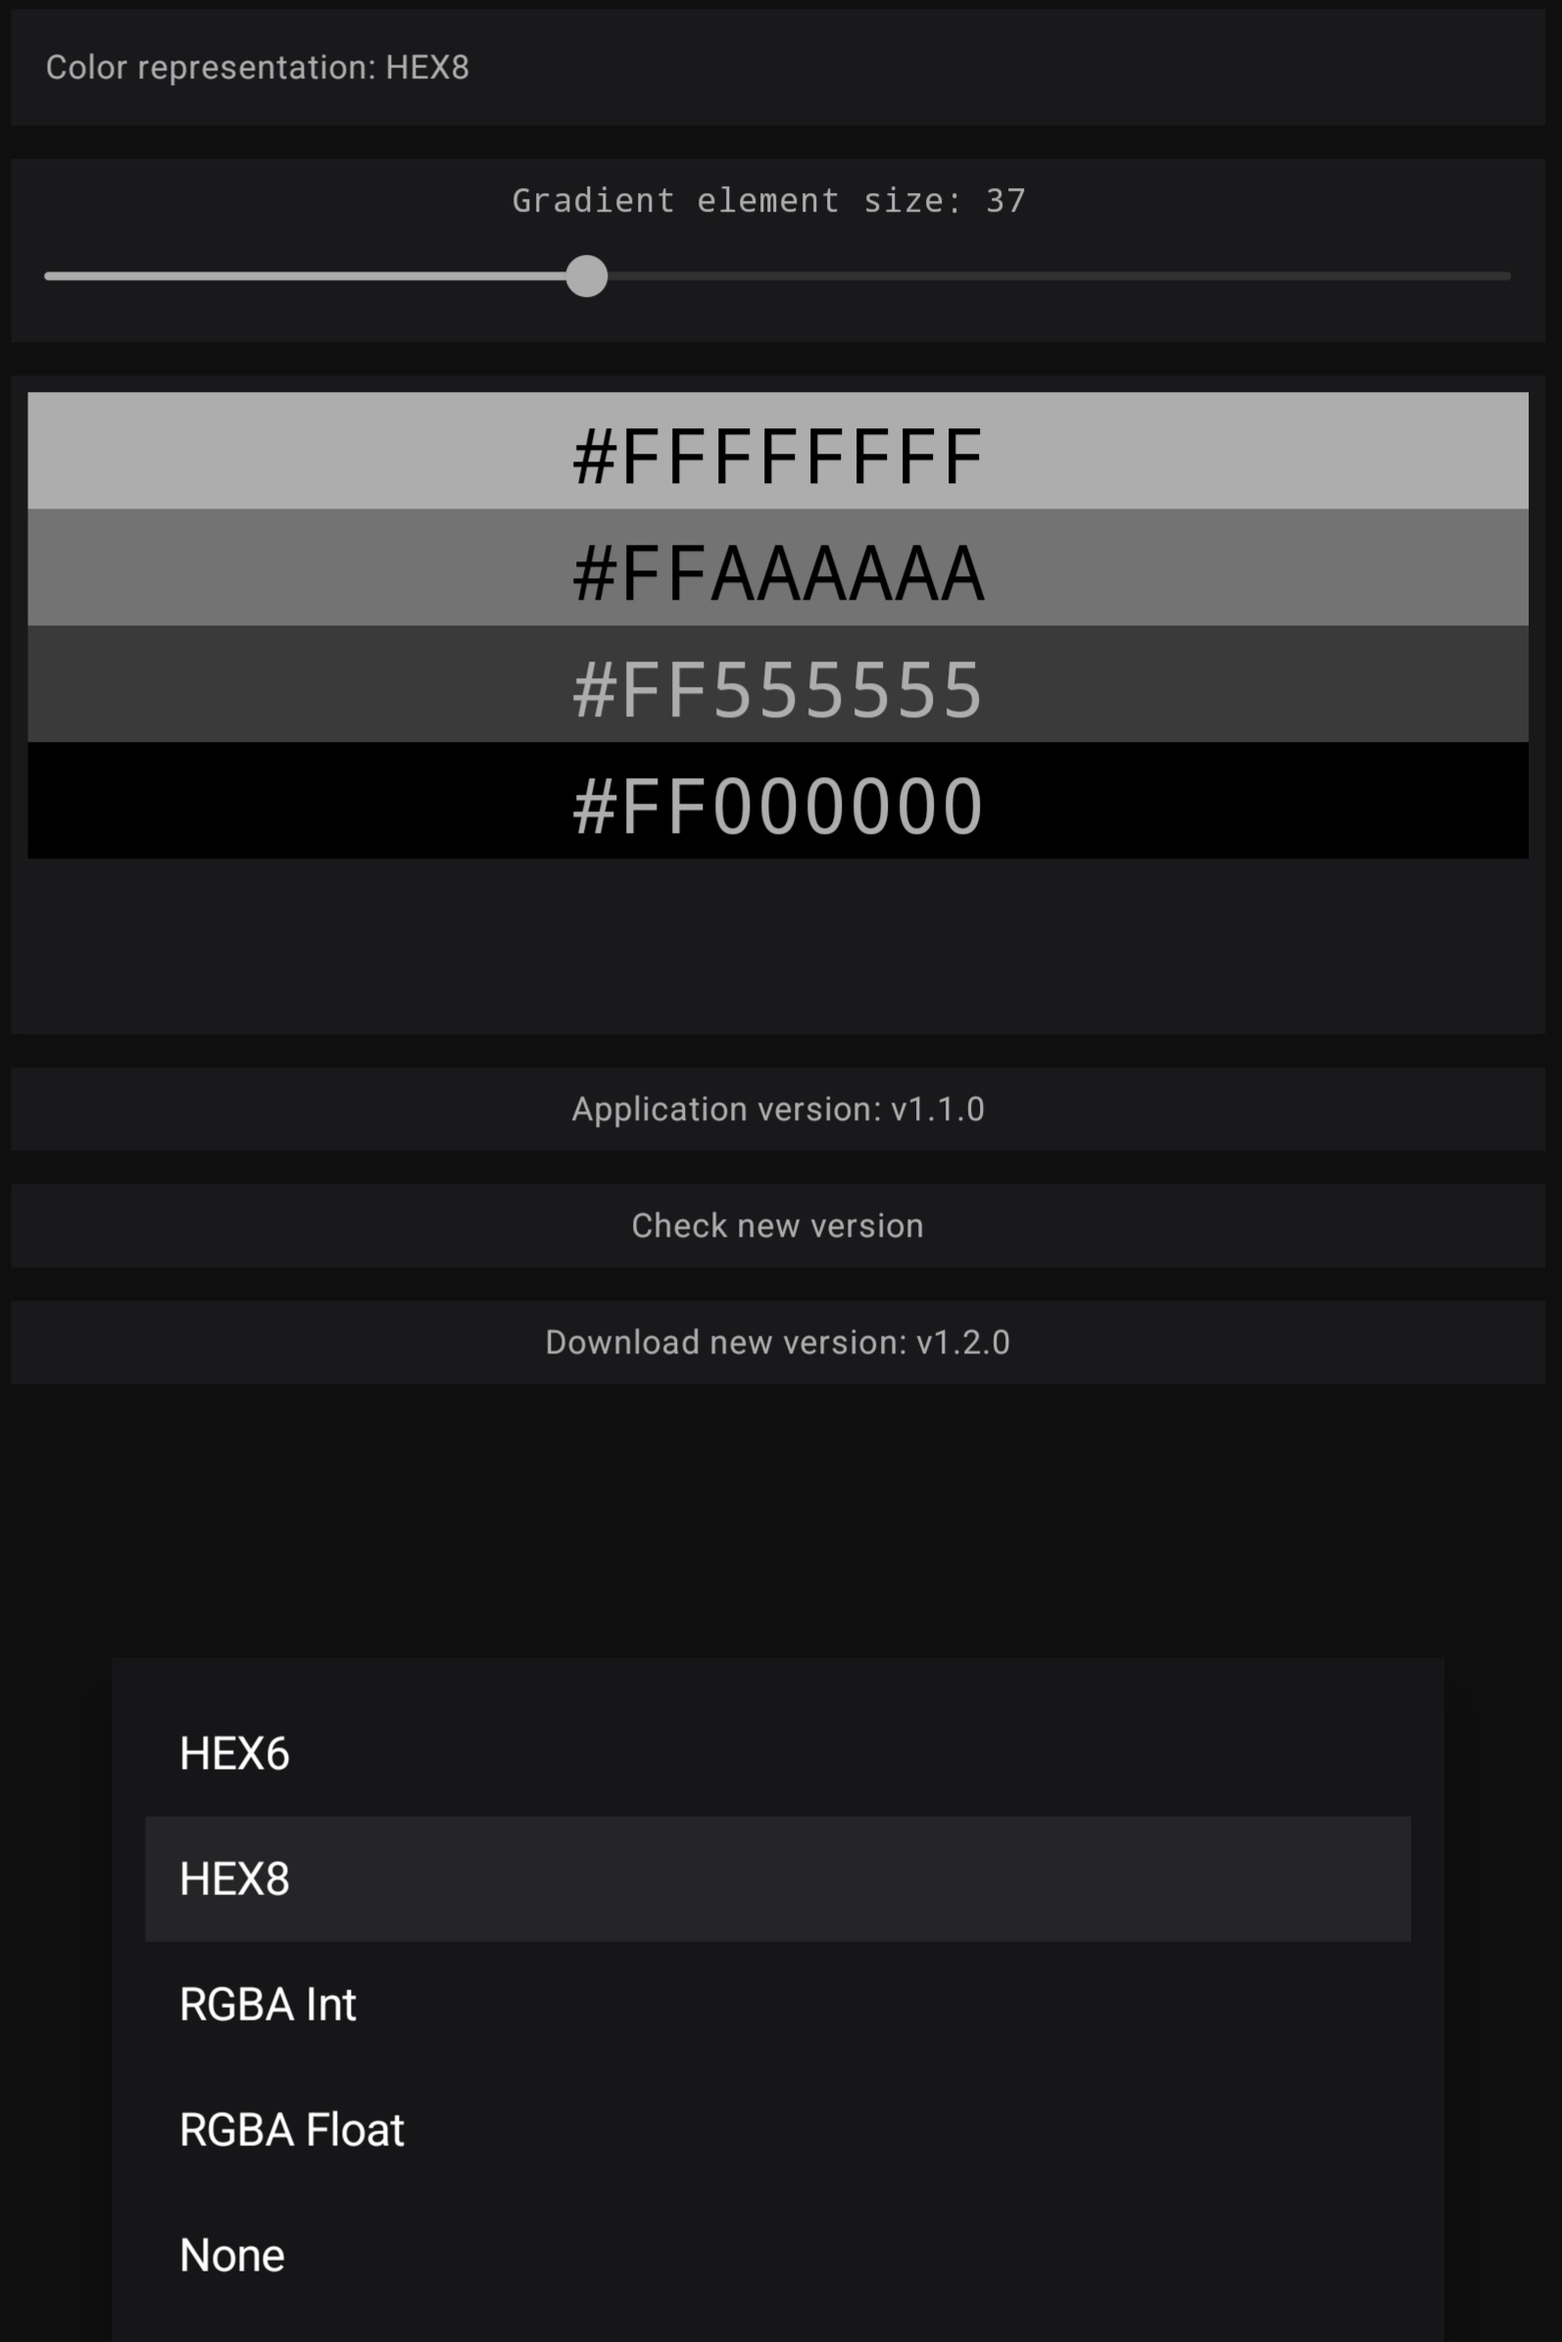
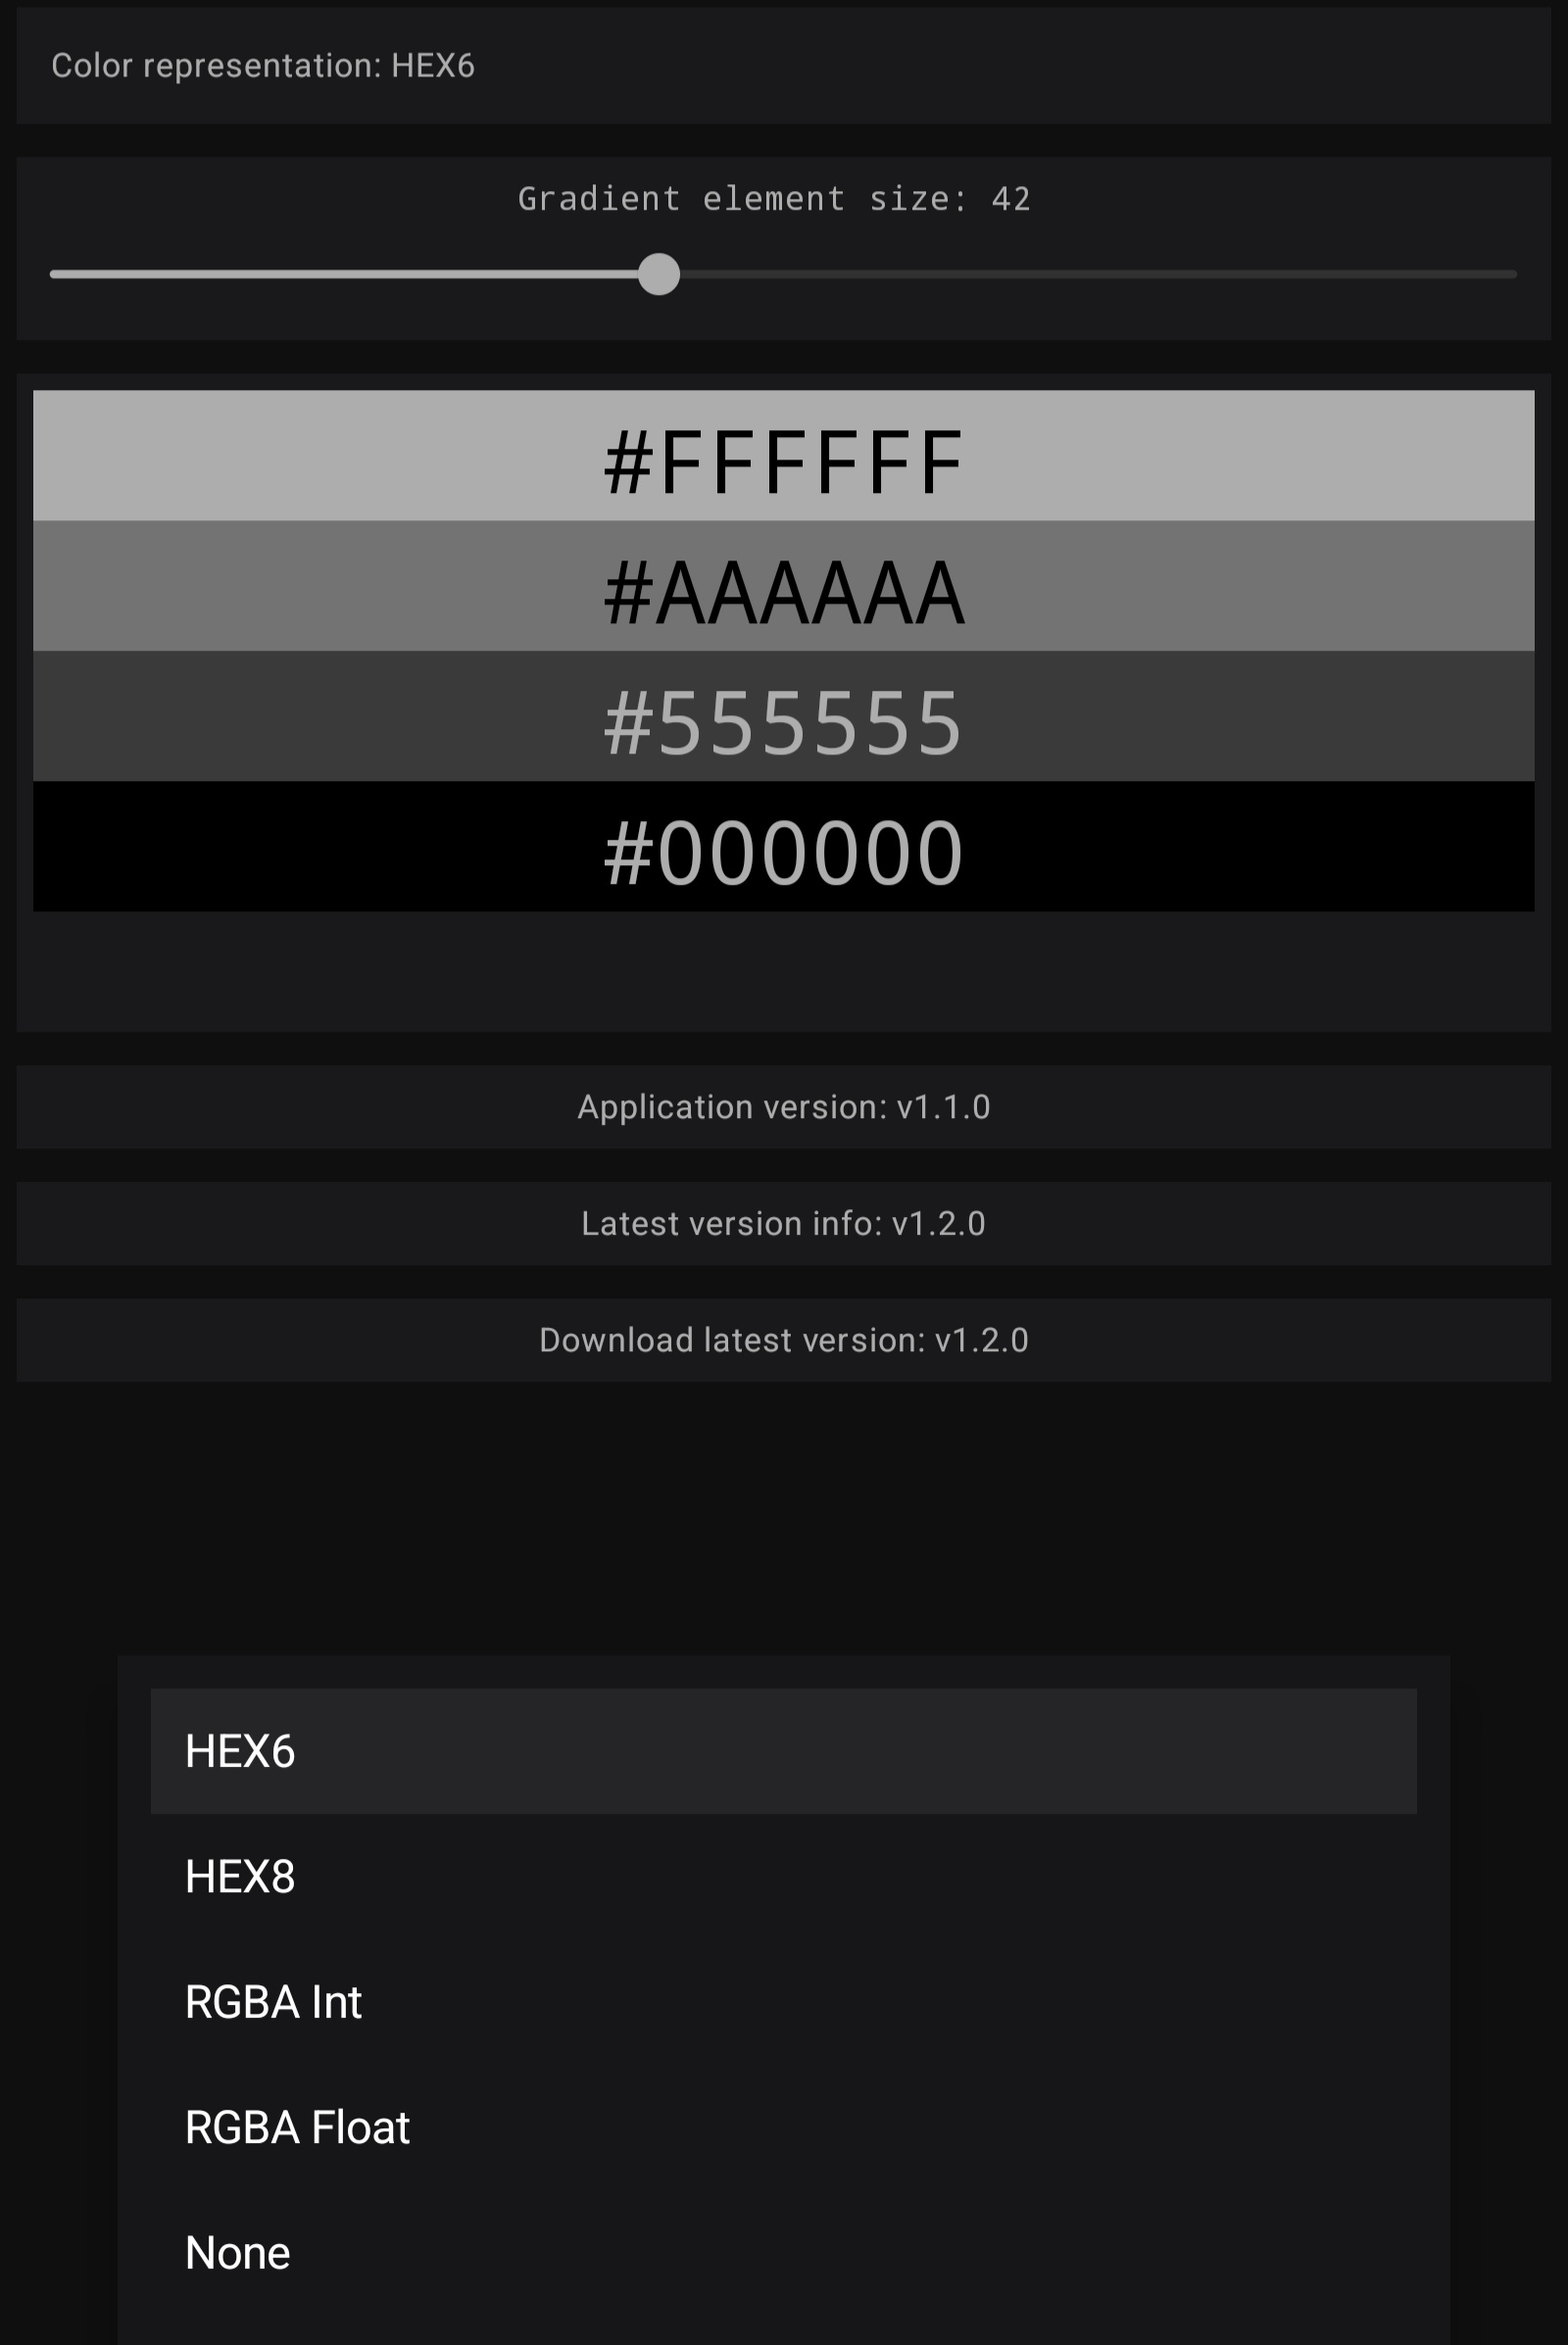
open github current version release on current version click, open github latest version release on latest version click

diff --git a/app/src/main/java/com/example/gradienter/presentation/screens/settingsScreen/SettingsScreenViewModel.kt b/app/src/main/java/com/example/gradienter/presentation/screens/settingsScreen/SettingsScreenViewModel.kt
@@ -54,8 +54,10 @@ class SettingsScreenViewModel @Inject constructor(
                 changeColorRepresentation(action.colorRepresentation)
             is SettingsScreenAction.OnGradientElementSizeChange ->
                 changeGradientElementSize(action.gradientElementSize)
-            is SettingsScreenAction.OnVersionClick ->
-                openGitHubLastRelease(action.context)
+            is SettingsScreenAction.OnCurrentVersionClick ->
+                openGitHubCurrentRelease(action.context)
+            is SettingsScreenAction.OnNewVersionInfoClick ->
+                openGitHubLatestRelease(action.context)
             is SettingsScreenAction.OnCheckNewVersionClick ->
                 checkNewVersion()
             is SettingsScreenAction.OnDownloadNewVersionClick ->
@@ -71,11 +73,21 @@ class SettingsScreenViewModel @Inject constructor(
     private fun changeGradientElementSize(gradientElementSize: Int) {
         setGradientElementSizeUseCase(gradientElementSize)
     }
-    private fun openGitHubLastRelease(context: Context) {
+    private fun openGitHubCurrentRelease(context: Context) {
+        openUri(
+            context = context,
+            uriString = Constants.GITHUB_CURRENT_RELEASE_URI
+        )
+    }
+    private fun openGitHubLatestRelease(context: Context) {
+        openUri(
+            context = context,
+            uriString = Constants.GITHUB_LATEST_RELEASE_URI
+        )
+    }
+    private fun openUri(context: Context, uriString: String) {
         val intent = Intent(
-            Intent.ACTION_VIEW, Uri.parse(
-                Constants.PROJECT_REPOSITORY
-            )
+            Intent.ACTION_VIEW, Uri.parse(uriString)
         )
         context.startActivity(intent)
     }

diff --git a/app/src/main/java/com/example/gradienter/presentation/screens/settingsScreen/SettingsScreen.kt b/app/src/main/java/com/example/gradienter/presentation/screens/settingsScreen/SettingsScreen.kt
@@ -7,7 +7,6 @@ import androidx.compose.foundation.layout.PaddingValues
 import androidx.compose.foundation.layout.fillMaxHeight
 import androidx.compose.foundation.layout.fillMaxSize
 import androidx.compose.foundation.layout.fillMaxWidth
-import androidx.compose.foundation.layout.padding
 import androidx.compose.foundation.rememberScrollState
 import androidx.compose.foundation.verticalScroll
 import androidx.compose.material.ExperimentalMaterialApi
@@ -102,7 +101,7 @@ fun SettingsScreen(
                 ) {
                     ApplicationVersion(
                         onClick = {
-                            screenAction(SettingsScreenAction.OnVersionClick(context))
+                            screenAction(SettingsScreenAction.OnCurrentVersionClick(context))
                         },
                         modifier = Modifier
                             .fillMaxWidth()
@@ -112,8 +111,13 @@ fun SettingsScreen(
                     innerPadding = PaddingValues(0.dp)
                 ) {
                     CheckNewVersion(
-                        onClick = {
+                        hasNewVersion = screenState.hasNewVersion,
+                        versionName = screenState.newVersionName,
+                        onCheckNewVersionClick = {
                             screenAction(SettingsScreenAction.OnCheckNewVersionClick)
+                        },
+                        onOpenNewVersionInfoClick = {
+                            screenAction(SettingsScreenAction.OnNewVersionInfoClick(context))
                         },
                         modifier = Modifier
                             .fillMaxWidth()

diff --git a/app/src/main/java/com/example/gradienter/presentation/screens/settingsScreen/components/CheckNewVersion.kt b/app/src/main/java/com/example/gradienter/presentation/screens/settingsScreen/components/CheckNewVersion.kt
@@ -15,8 +15,16 @@ import com.example.todoapp.presentation.themes.themeColors
 @Composable
 fun CheckNewVersion(
     modifier: Modifier = Modifier,
-    onClick: () -> Unit,
+    hasNewVersion: Boolean,
+    versionName: String,
+    onCheckNewVersionClick: () -> Unit,
+    onOpenNewVersionInfoClick: () -> Unit,
 ) {
+    val onClick = if (hasNewVersion) {
+        onOpenNewVersionInfoClick
+    } else {
+        onCheckNewVersionClick
+    }
     Box(
         contentAlignment = androidx.compose.ui.Alignment.Center,
         modifier = modifier
@@ -25,15 +33,38 @@ fun CheckNewVersion(
     ) {
         Text(
             color = themeColors.labelPrimary,
-            text = stringResource(id = R.string.checkNewVersion),
+            text = if (hasNewVersion) {
+                "${stringResource(id = R.string.latestVersionInfo)}: " +
+                    versionName
+            } else {
+                stringResource(id = R.string.checkNewVersion)
+            },
         )
     }
 }
 
-@Preview
+@Preview(
+    showBackground = true
+)
 @Composable
-private fun CheckNewVersionPreview() {
+private fun HasNewVersionCheckNewVersionPreview() {
     CheckNewVersion(
-        onClick = {},
+        hasNewVersion = true,
+        versionName = "v1.3.0",
+        onCheckNewVersionClick = {},
+        onOpenNewVersionInfoClick = {},
+    )
+}
+
+@Preview(
+    showBackground = true
+)
+@Composable
+private fun NoNewVersionCheckNewVersionPreview() {
+    CheckNewVersion(
+        hasNewVersion = false,
+        versionName = "v1.3.0",
+        onCheckNewVersionClick = {},
+        onOpenNewVersionInfoClick = {},
     )
 }

diff --git a/app/src/main/java/com/example/gradienter/Constants.kt b/app/src/main/java/com/example/gradienter/Constants.kt
@@ -4,8 +4,6 @@ import androidx.compose.ui.graphics.Color
 import com.example.gradienter.data.ColorRepresentations
 
 object Constants {
-    const val PROJECT_REPOSITORY = "https://github.com/Zakis0/Gradienter/releases/latest"
-
     const val DEFAULT_GRADIENT_ELEMENT_HEIGHT = 18
     val DEFAULT_COLOR_REPRESENTATION = ColorRepresentations.Representation.HEX6
 
@@ -18,4 +16,7 @@ object Constants {
 
     const val GITHUB_OWNER = "Zakis0"
     const val GITHUB_REPOSITORY = "Gradienter"
+
+    const val GITHUB_LATEST_RELEASE_URI = "https://github.com/$GITHUB_OWNER/$GITHUB_REPOSITORY/releases/latest"
+    const val GITHUB_CURRENT_RELEASE_URI = "https://github.com/$GITHUB_OWNER/$GITHUB_REPOSITORY/releases/tag/${BuildConfig.VERSION_NAME}"
 }

diff --git a/app/src/main/java/com/example/gradienter/presentation/screens/settingsScreen/SettingsScreenAction.kt b/app/src/main/java/com/example/gradienter/presentation/screens/settingsScreen/SettingsScreenAction.kt
@@ -10,7 +10,10 @@ sealed class SettingsScreenAction {
     data class OnGradientElementSizeChange(
         val gradientElementSize: Int
     ) : SettingsScreenAction()
-    data class OnVersionClick(
+    data class OnCurrentVersionClick(
+        val context: Context
+    ) : SettingsScreenAction()
+    data class OnNewVersionInfoClick(
         val context: Context
     ) : SettingsScreenAction()
     data object OnCheckNewVersionClick : SettingsScreenAction()

diff --git a/app/src/main/java/com/example/gradienter/presentation/screens/settingsScreen/components/DownloadNewVersion.kt b/app/src/main/java/com/example/gradienter/presentation/screens/settingsScreen/components/DownloadNewVersion.kt
@@ -32,7 +32,7 @@ fun DownloadNewVersion(
             text = if (isDownloading) {
                 stringResource(id = R.string.downloading)
             } else {
-                "${stringResource(id = R.string.downloadNewVersion)}: " +
+                "${stringResource(id = R.string.downloadLatestVersion)}: " +
                         versionName
             },
         )
